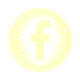
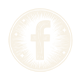
Update image assets and styles

Changed region(s): [[0.1, 0.1, 0.925, 0.9], [0.375, 0.25, 0.625, 0.75], [0.4, 0.725, 0.425, 0.75]]

diff --git a/index.html b/index.html
@@ -243,7 +243,7 @@
           <h2 class="intro-text reveal-text">
             Quelques mots <span class="semi-italic">partagés</span> par nos hôtes, à l’issue <br class="br-desktop" />de leur séjour au Domaine d’<span class="semi-italic">Arimont</span>
           </h2>
-          <div style="margin-top: 18px;">
+          <div style="margin-top: 18px;margin-bottom: 100px;">
             <button class="btn btn-outline" type="button">vous aussi laissez un avis</button>
           </div>
 
@@ -306,7 +306,7 @@
         <div class="content-wrap">
           <div class="footer-grid">
             <div class="footer-rabbit-col">
-              <img class="footer-rabbit" src="/img/illustrations/lapin_YELLOW.png" alt="" aria-hidden="true" />
+              <img class="footer-rabbit" src="/img/illustrations/lapin_BEIGE.png" alt="" aria-hidden="true" />
               <button class="btn btn-outline footer-rabbit-cta" type="button">Réservez</button>
             </div>
             <div>
@@ -344,7 +344,7 @@
               </div>
             </div>
           </div>
-          <div class="footer-bottom">© <span data-year></span> © 2026 le domaine d’arimont - Website par young, wild & pixels agency</div>
+          <div class="footer-bottom">© <span data-year></span> le domaine d’arimont - Website par young, wild & pixels agency</div>
         </div>
       </div>
     </footer>

diff --git a/src/nav.css b/src/nav.css
@@ -19,7 +19,7 @@
 .menu-open .site-header {
   background: transparent;
   border-bottom: none;
-  color: var(--color-yellow);
+  color: var(--color-beige);
 }
 
 .header-inner {
@@ -50,7 +50,7 @@
 }
 
 .menu-open .logo-mark {
-  background-color: var(--color-yellow);
+  background-color: var(--color-beige);
 }
 
 .nav-links {
@@ -131,7 +131,7 @@
 }
 
 .menu-open .nav-toggle-bar {
-  background: var(--color-yellow);
+  background: var(--color-beige);
 }
 
 .menu-open .nav-toggle-bar:nth-child(1) {
@@ -150,7 +150,7 @@
   position: fixed;
   inset: 0;
   background: #2a5843;
-  color: var(--color-yellow);
+  color: var(--color-beige);
   z-index: 9;
   opacity: 0;
   pointer-events: none;
@@ -159,7 +159,7 @@
 }
 
 .menu-open .mobile-menu-inner a {
-  color: var(--color-yellow);
+  color: var(--color-beige);
 }
 
 .mobile-menu::after {

diff --git a/src/home.css b/src/home.css
@@ -914,8 +914,15 @@ body.is-loading {
 
 .footer-main {
   background: #214739;
-  color: var(--color-yellow);
+  color: var(--color-beige);
   padding: 48px 0 30px;
+}
+
+.footer-main a,
+.footer-main .footer-title,
+.footer-main .footer-links,
+.footer-main .footer-bottom {
+  color: var(--color-beige);
 }
 
 .footer-grid {
@@ -939,8 +946,8 @@ body.is-loading {
 }
 
 .footer-rabbit-cta {
-  color: var(--color-yellow);
-  border-color: rgba(253, 255, 194, 0.8);
+  color: var(--color-beige);
+  border-color: rgba(246, 241, 230, 0.8);
   background: transparent;
   margin-left: 10px;
 }
@@ -974,7 +981,7 @@ body.is-loading {
 }
 
 .footer-bottom {
-  border-top: 2px solid var(--color-yellow);
+  border-top: 2px solid rgba(246, 241, 230, 0.75);
   margin-top: 50px;
   padding-top: 25px;
   font-size: 12px;
